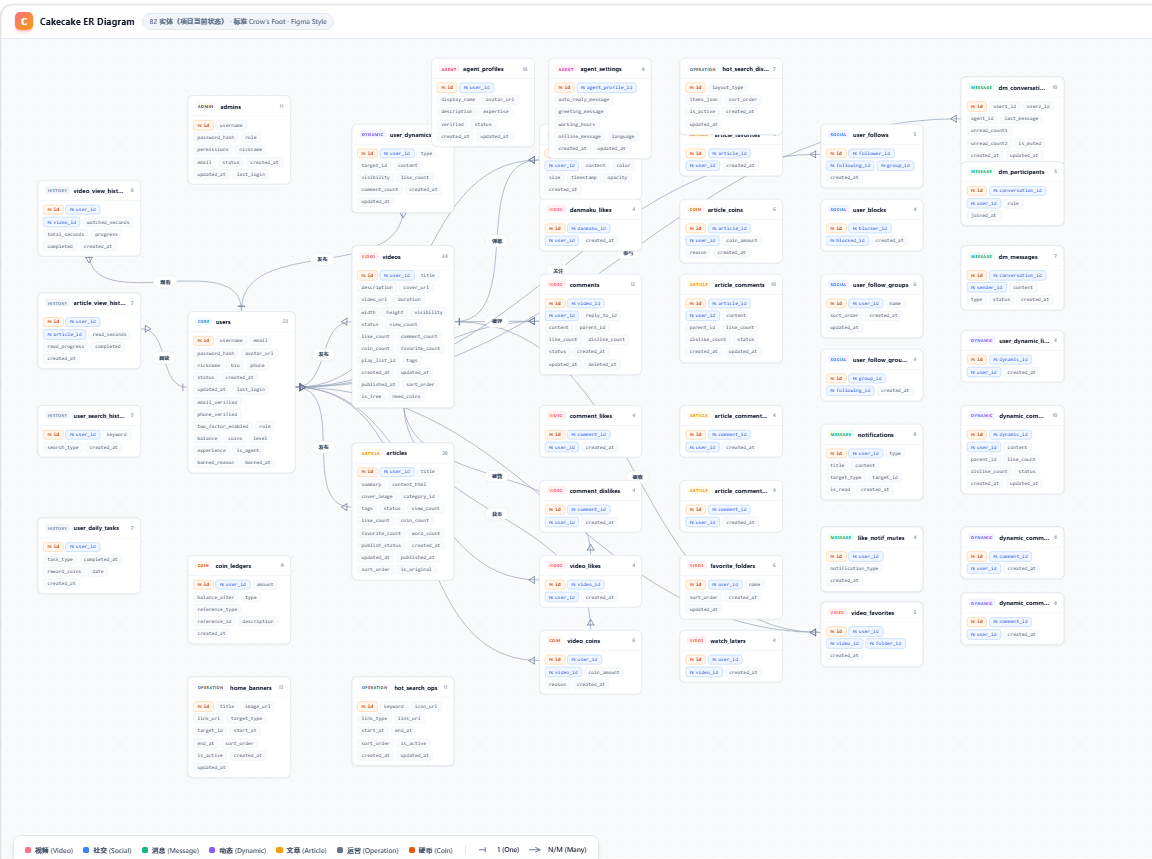
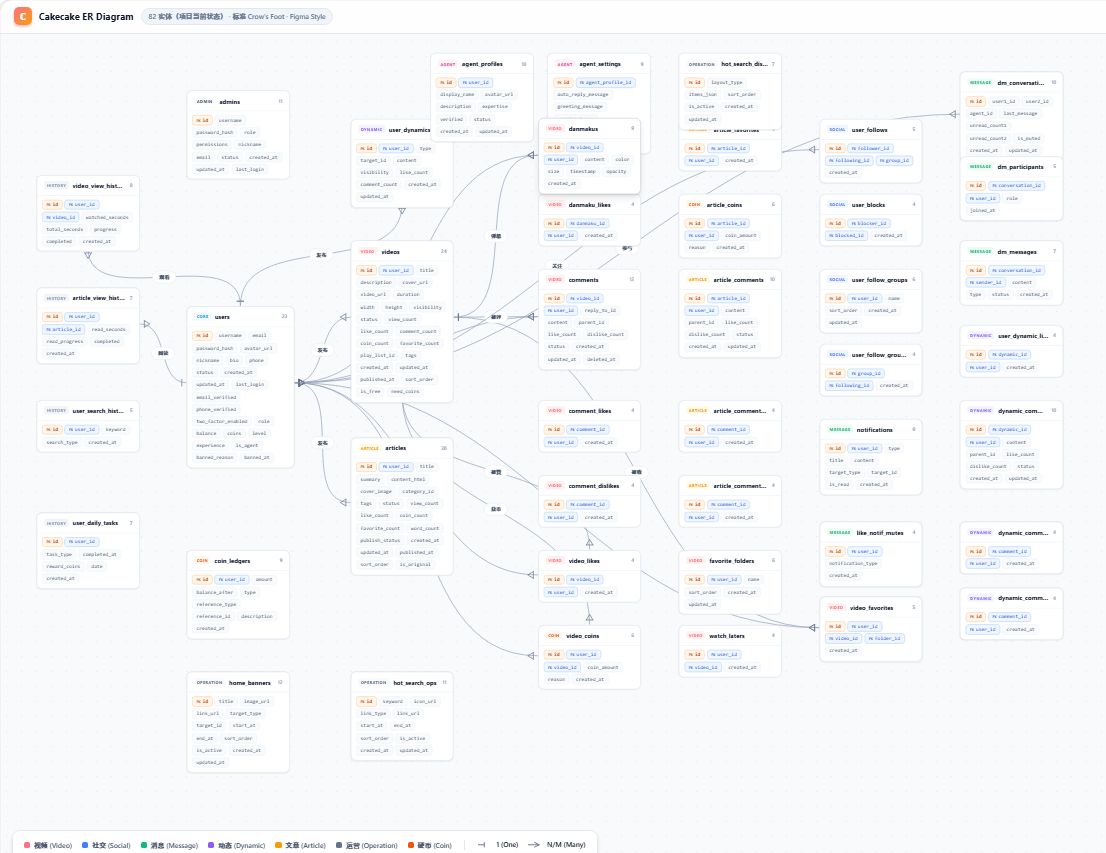
docs: 更新README数据库计数82→84、截图刷新、移除过期目录引用

diff --git a/docs/cakecake_er_figma-diagram.html b/docs/cakecake_er_figma-diagram.html
@@ -293,7 +293,7 @@
   <div class="top-bar-title">
     <div class="logo-icon">C</div>
     Cakecake ER Diagram
-    <span class="badge">82 实体（项目当前状态） · 标准 Crow's Foot · Figma Style</span>
+    <span class="badge">84 实体（项目当前状态） · 标准 Crow's Foot · Figma Style</span>
   </div>
 </div>
 
